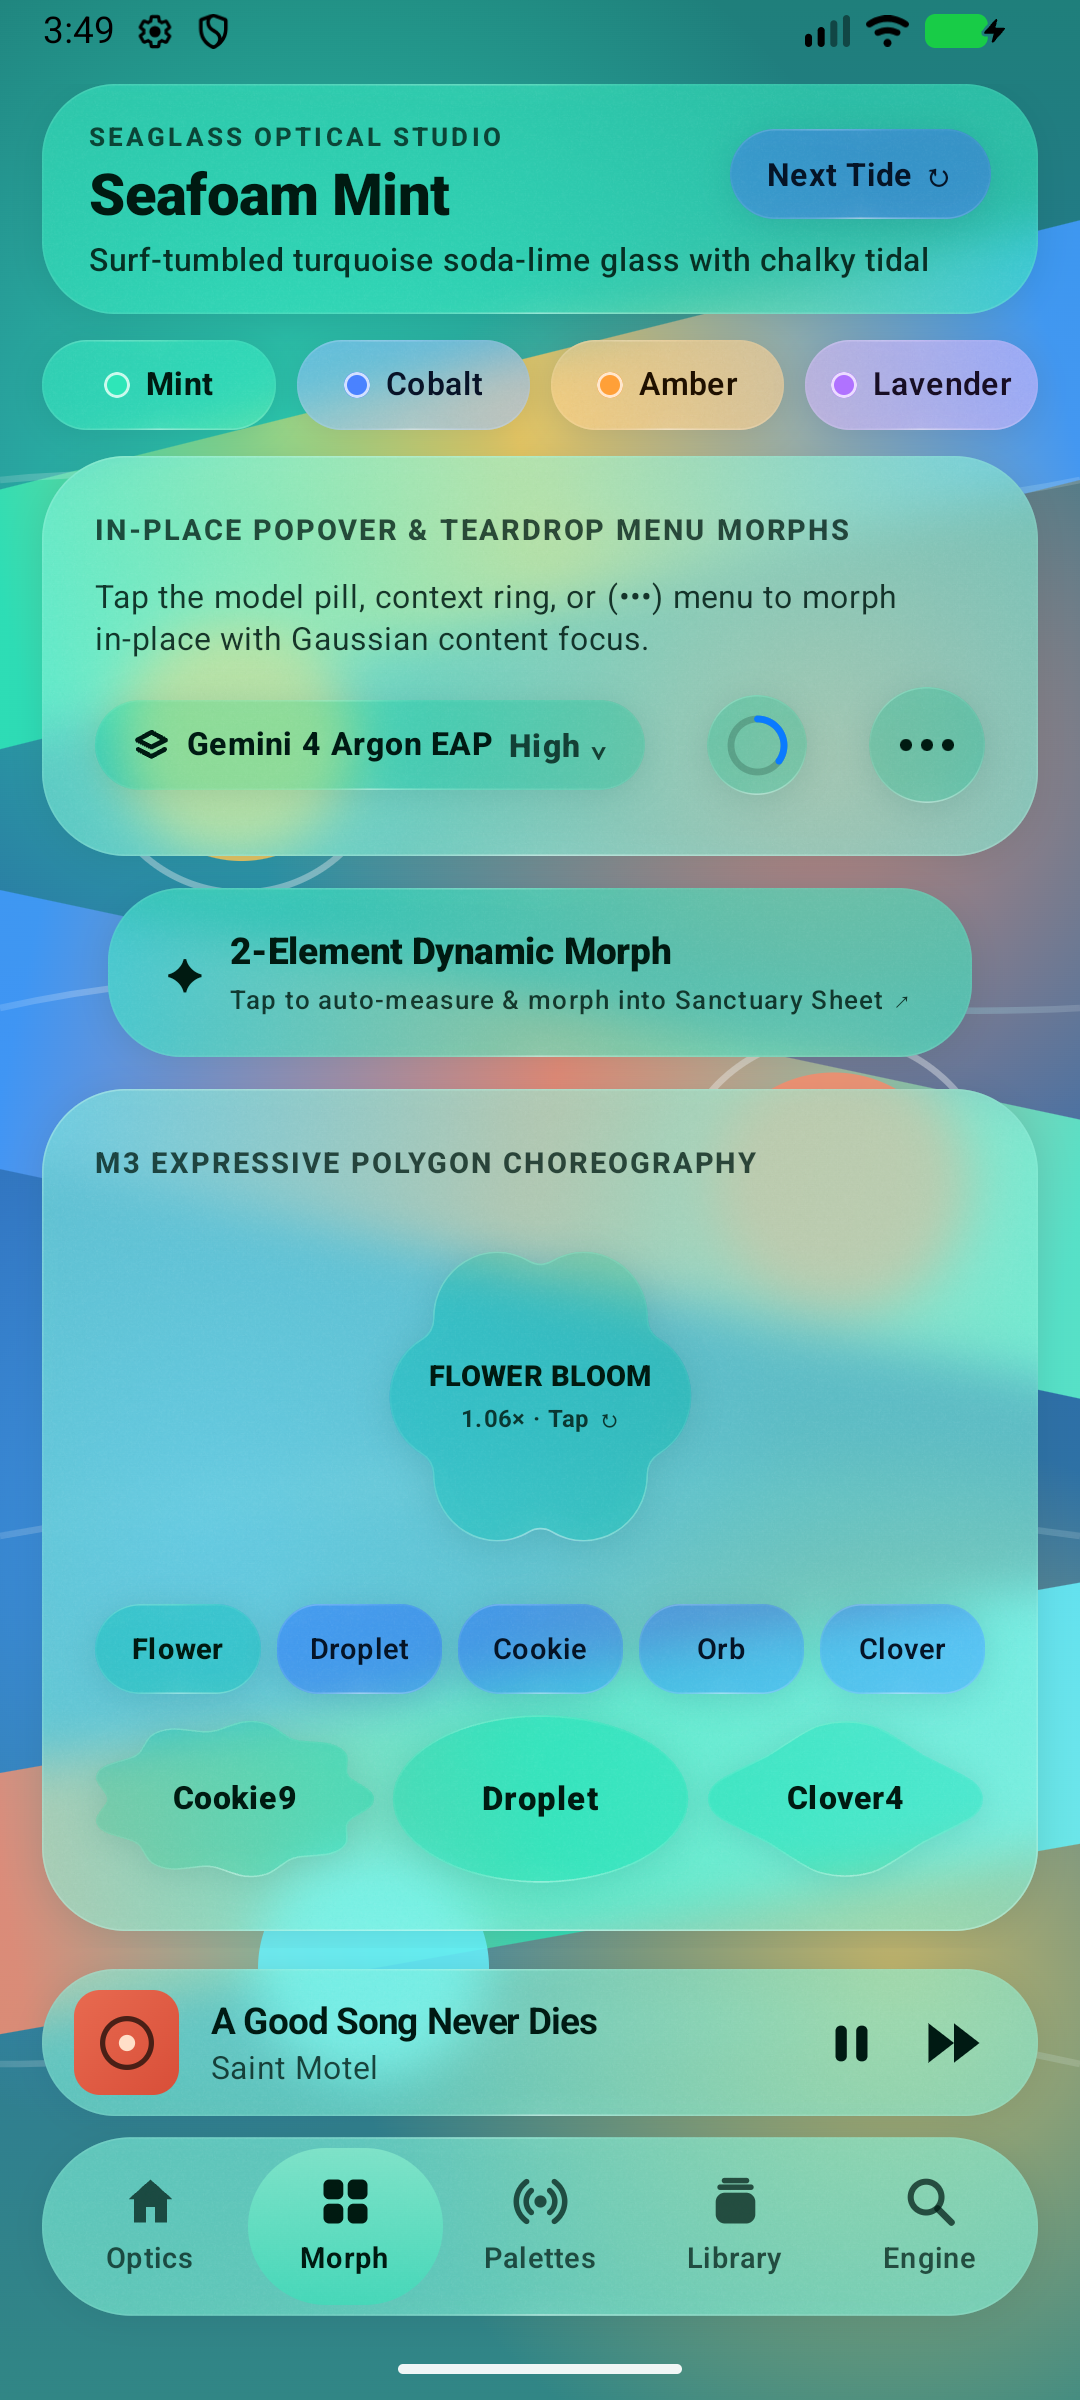
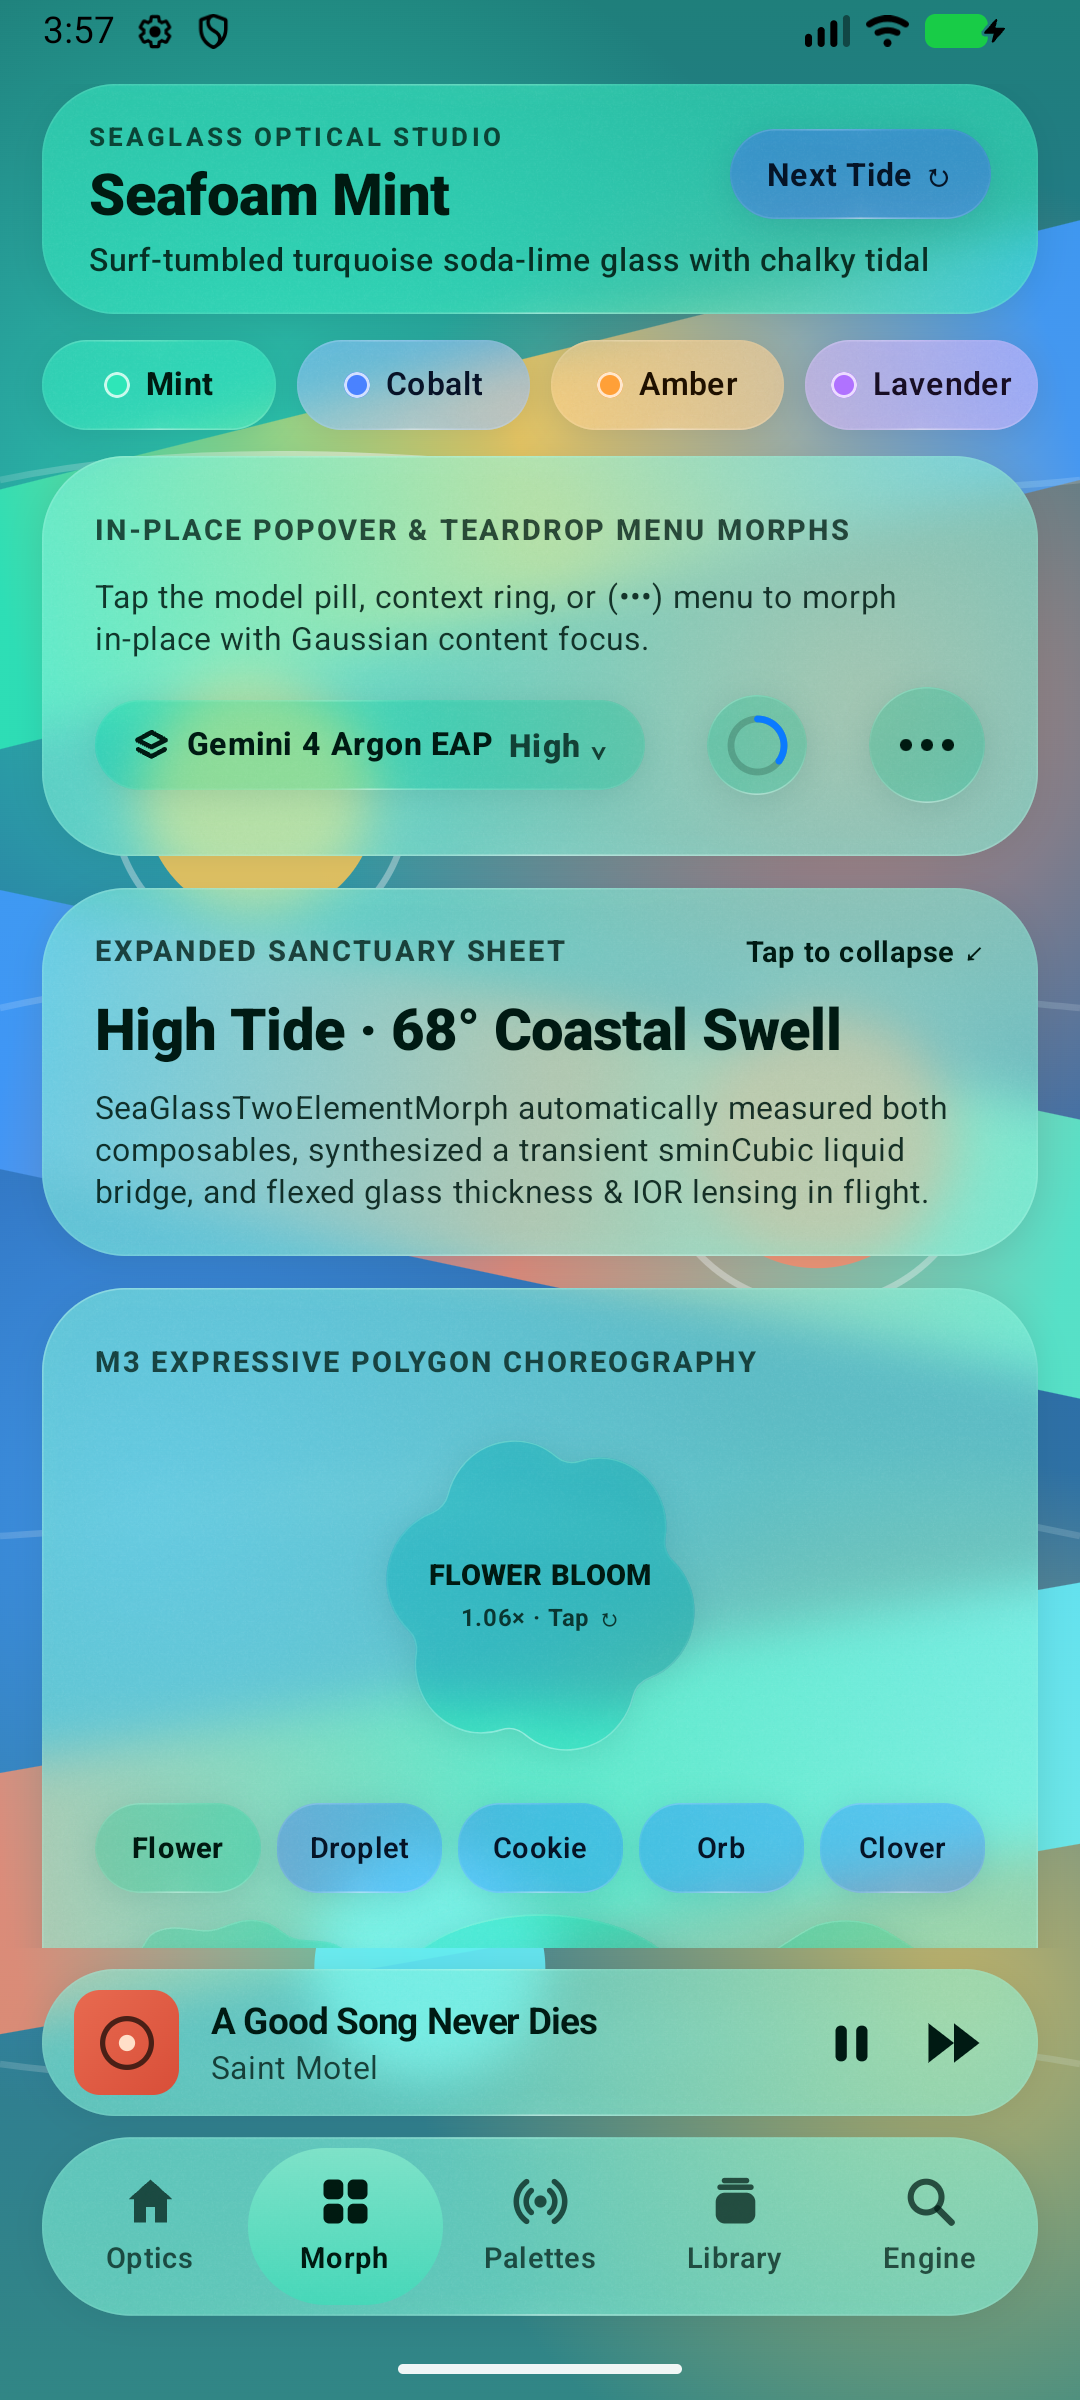
Add temporal de-aging and solidification during motion and morph transitions

Changed region(s): [[0.0306, 0.25, 0.9778, 0.8438], [0.0611, 0.0, 0.0917, 0.0312], [0.0306, 0.1875, 0.0611, 0.2188]]

diff --git a/android/seaglass-compose/src/main/kotlin/dev/seaglass/compose/SeaGlassUiKit.kt b/android/seaglass-compose/src/main/kotlin/dev/seaglass/compose/SeaGlassUiKit.kt
@@ -762,16 +762,15 @@ fun SeaGlassSwitch(
         label = "switchTintEffects"
     )
 
-    val trackMaterial = remember(checkedMaterial, uncheckedMaterial, tintProgress) {
-        SeaGlassMaterial.lerp(uncheckedMaterial, checkedMaterial, tintProgress.coerceIn(0f, 1f)).copy(
-            cornerRadiusDp = 18f,
-            thicknessDp = 12f
-        )
-    }
-
     val leftThumbFrac = min(leadThumb, trailThumb).coerceIn(-0.08f, 1.08f)
     val rightThumbFrac = max(leadThumb, trailThumb).coerceIn(-0.08f, 1.08f)
     val stretchFrac = (rightThumbFrac - leftThumbFrac).coerceIn(0f, 0.85f)
+    val trackMaterial = remember(checkedMaterial, uncheckedMaterial, tintProgress, stretchFrac) {
+        SeaGlassMaterial.lerp(uncheckedMaterial, checkedMaterial, tintProgress.coerceIn(0f, 1f)).copy(
+            cornerRadiusDp = 18f,
+            thicknessDp = 12f
+        ).deaged(stretchFrac * 1.15f)
+    }
     val trackWidthDp = 56.dp
     val trackHeightDp = 32.dp
     val baseThumbWidthDp = 26.dp
@@ -1046,6 +1045,11 @@ fun SeaGlassSegmentedButtonRow(
         Color(indicatorMaterial.tintColorArgb).copy(alpha = 0.48f)
     }
 
+    val segStretchMalleability = abs(leadSegIndex - trailSegIndex).coerceIn(0f, 1f) * 0.78f
+    val activeSegMaterial = remember(containerMaterial, segStretchMalleability) {
+        containerMaterial.copy(cornerRadiusDp = 23f, thicknessDp = 15f).deaged(segStretchMalleability)
+    }
+
     ProvideSeaGlassLegibleContent(contentColor = contentColor) {
         Box(
             modifier = modifier
@@ -1054,7 +1058,7 @@ fun SeaGlassSegmentedButtonRow(
                 .onSizeChanged { barWidthPx = it.width.toFloat().coerceAtLeast(1f) }
                 .seaGlass(
                     stageState = stageState,
-                    material = containerMaterial.copy(cornerRadiusDp = 23f, thicknessDp = 15f),
+                    material = activeSegMaterial,
                     contentRole = SeaGlassContentRole.NAVIGATION_CHROME
                 )
                 .padding(4.dp)
@@ -1345,6 +1349,11 @@ fun SeaGlassFloatingToolbar(
         )
     }
 
+    val toolbarGapMalleability = (abs(gapDp.value - (if (fabDetached) 18f else -6f)) / 14f).coerceIn(0f, 1f)
+    val activeToolbarMaterial = remember(barMaterial, toolbarGapMalleability) {
+        barMaterial.deaged(toolbarGapMalleability)
+    }
+
     Box(
         modifier = modifier
             .fillMaxWidth()
@@ -1352,7 +1361,7 @@ fun SeaGlassFloatingToolbar(
             .onSizeChanged { totalWidthPx = it.width.toFloat().coerceAtLeast(240f) }
             .seaGlass(
                 stageState = stageState,
-                material = barMaterial,
+                material = activeToolbarMaterial,
                 nodesOptional = sdfNodes,
                 smoothRadiusDp = 32f,
                 contentRole = SeaGlassContentRole.NAVIGATION_CHROME

diff --git a/android/sample/src/main/kotlin/dev/seaglass/sample/MainActivity.kt b/android/sample/src/main/kotlin/dev/seaglass/sample/MainActivity.kt
@@ -596,15 +596,17 @@ private fun OpticsLabSection(
     // 1. Flagship Material 3 Expressive × Liquid Sea Glass Coalescing Media & Soundscape Deck
     var isPlaying by remember { mutableStateOf(true) }
     var heroFlowState by remember { mutableIntStateOf(0) }
+    val targetOrbGapDp = when (heroFlowState) {
+        0 -> -2f
+        1 -> 9f
+        else -> 22f
+    }
     val playOrbGapDp by animateFloatAsState(
-        targetValue = when (heroFlowState) {
-            0 -> -2f
-            1 -> 9f
-            else -> 22f
-        },
+        targetValue = targetOrbGapDp,
         animationSpec = spring(dampingRatio = 0.54f, stiffness = 300f),
         label = "playOrbGap"
     )
+    val deckFlowMalleability = (kotlin.math.abs(playOrbGapDp - targetOrbGapDp) / 10f).coerceIn(0f, 1f)
 
     var deckWidthPx by remember { mutableFloatStateOf(960f) }
     val deckHeight = 112.dp
@@ -692,7 +694,7 @@ private fun OpticsLabSection(
             )
             .seaGlass(
                 stageState = stageState,
-                material = primaryMaterial,
+                material = primaryMaterial.deaged(kotlin.math.max(deckFlowMalleability, deckTouchIntensity * 0.7f)),
                 nodesOptional = heroNodes,
                 smoothRadiusDp = 44f,
                 touchPointInLocal = deckTouchPoint,
@@ -1422,6 +1424,10 @@ private fun FluidCoalescingSection(
         animationSpec = spring(dampingRatio = 0.60f, stiffness = 580f),
         label = "arenaTouchIntensity"
     )
+    val sepFlightEnergy = (kotlin.math.abs(animatedSepDp - targetSeparationDp) / 36f).coerceIn(0f, 1f)
+    val shapeFlightEnergy = (4f * localMorphFrac.coerceIn(0f, 1f) * (1f - localMorphFrac.coerceIn(0f, 1f)))
+        .coerceIn(0f, 1f)
+    val arenaMalleability = maxOf(sepFlightEnergy, shapeFlightEnergy, arenaTouchIntensity * 0.85f).coerceIn(0f, 1f)
 
     Box(
         modifier = Modifier
@@ -1446,7 +1452,7 @@ private fun FluidCoalescingSection(
             }
             .seaGlass(
                 stageState = stageState,
-                material = primaryMaterial,
+                material = primaryMaterial.deaged(arenaMalleability),
                 nodesOptional = arenaMorphNodes,
                 smoothRadiusDp = smoothBridgeDp,
                 touchPointInLocal = arenaTouchPoint,

diff --git a/android/seaglass-core/src/main/kotlin/dev/seaglass/core/SeaGlassShapeMorph.kt b/android/seaglass-core/src/main/kotlin/dev/seaglass/core/SeaGlassShapeMorph.kt
@@ -676,7 +676,13 @@ object SeaGlassShapeMorph {
     ): RoundedPolygon = obtainNormalizedPolygon(kind, aspectRatio)
 
     /**
-     * Computes the dynamic **Liquid Glass Flex Material** during an animation or transition.
+     * Computes the dynamic **Liquid Glass Flex & Temporal De-Aging Material** during an animation or transition:
+     * - While in flight (`totalEnergy > 0`), the material **de-ages** (`deaged(totalEnergy)`): it sheds
+     *   its coarse sand-frosted texture (`coarseness` dissolves toward `0`), clarifies into malleable
+     *   liquid glass (`transparency` rises, `frostRadiusDp` tightens), and flexes its refractive lens
+     *   (`ior`, `chromaticDispersion`, `thicknessDp`).
+     * - As the animation settles (`progress -> 0` or `progress -> 1`), the glass solidifies and
+     *   regains its full sand-frosted surface treatment.
      */
     fun computeDynamicFlexMaterial(
         startMaterial: SeaGlassMaterial,
@@ -690,11 +696,12 @@ object SeaGlassShapeMorph {
 
         val morphEnergy = (4f * p * (1f - p)).coerceIn(0f, 1f)
         val velocityEnergy = (abs(velocityPxPerSec) / 1800f).coerceIn(0f, 1f)
-        val totalEnergy = max(morphEnergy, velocityEnergy * 0.75f)
+        val totalEnergy = max(morphEnergy, velocityEnergy * 0.75f).coerceIn(0f, 1f)
 
         val scaleFactor = sqrt(areaExpansionRatio.coerceIn(0.5f, 4.0f))
+        val deagedBase = base.deaged(totalEnergy)
 
-        return base.copy(
+        return deagedBase.copy(
             ior = (base.ior + 0.10f * totalEnergy + 0.04f * (scaleFactor - 1f)).coerceIn(1.0f, 1.95f),
             chromaticDispersion = (base.chromaticDispersion + 0.22f * totalEnergy).coerceIn(0f, 1f),
             rimChalkiness = (base.rimChalkiness + 0.16f * totalEnergy).coerceIn(0f, 1f),

diff --git a/android/seaglass-core/src/main/kotlin/dev/seaglass/core/SeaGlassMaterial.kt b/android/seaglass-core/src/main/kotlin/dev/seaglass/core/SeaGlassMaterial.kt
@@ -93,6 +93,30 @@ data class SeaGlassMaterial(
     }
 
     /**
+     * Evaluates **Temporal De-Aging & Solidification** on this material during motion or morphing:
+     * - While the glass is malleable and moving ([malleability] $\to 1.0$), it reverses its sand-tumbled
+     *   state in time—shedding its coarse sand texture ([coarseness] $\to 0$), clarifying its body
+     *   ([transparency] $\to 0.92$, [frostRadiusDp] $\to 2.5\text{dp}$), and boosting refractive lensing.
+     * - As the animation finalizes and settles into its resting place ([malleability] $\to 0.0$),
+     *   the glass solidifies and re-crystallizes its full sand-frosted surface treatment.
+     */
+    fun deaged(malleability: Float): SeaGlassMaterial {
+        val m = malleability.coerceIn(0f, 1f)
+        if (m <= 0.005f) return this
+        // Fast melt into clear liquid glass on motion onset; smooth re-crystallization on settle
+        val melt = (m * (1.35f - 0.35f * m)).coerceIn(0f, 1f)
+        val targetClearTransparency = kotlin.math.max(transparency, 0.92f)
+        return copy(
+            coarseness = (coarseness * (1f - 0.88f * melt)).coerceIn(0f, 1f),
+            transparency = (transparency + (targetClearTransparency - transparency) * 0.80f * melt)
+                .coerceIn(0f, 1f),
+            frostRadiusDp = (frostRadiusDp * (1f - 0.82f * melt) + 2.0f * melt).coerceAtLeast(0f),
+            ior = (ior + 0.08f * melt).coerceIn(1.0f, 2.0f),
+            chromaticDispersion = (chromaticDispersion + 0.16f * melt).coerceIn(0f, 1f)
+        )
+    }
+
+    /**
      * Returns a physically compressed state of this material for touch/press interactions:
      * pressing the glass increases refractive rim light and volumetric tint saturation.
      */

diff --git a/android/seaglass-compose/src/main/kotlin/dev/seaglass/compose/SeaGlassTheme.kt b/android/seaglass-compose/src/main/kotlin/dev/seaglass/compose/SeaGlassTheme.kt
@@ -157,11 +157,23 @@ fun animateSeaGlassMaterialAsState(
         label = "transparency"
     )
 
-    return remember {
+    return remember(targetMaterial) {
         derivedStateOf {
             val animatedArgb = SeaGlassColorMath.oklabToArgb(
                 SeaGlassColorMath.OklabColor(l = l, a = a, b = b, alpha = 1f)
             )
+            // Compute in-flight malleability from active spatial/state transitions:
+            // while geometry (cornerRadius, thickness) or state tint is moving toward its target,
+            // the glass de-ages (loses its coarse sand texture and clarifies into malleable liquid
+            // glass) and solidifies back to its sand-frosted finish as the animation settles!
+            val cornerDelta = kotlin.math.abs(cornerRadiusDp - targetMaterial.cornerRadiusDp) / 7f
+            val thicknessDelta = kotlin.math.abs(thicknessDp - targetMaterial.thicknessDp) / 4.5f
+            val dl = l - labTarget.l
+            val da = a - labTarget.a
+            val db = b - labTarget.b
+            val colorDelta = kotlin.math.sqrt(dl * dl + da * da + db * db) * 4.5f
+            val inFlightMalleability = maxOf(cornerDelta, thicknessDelta, colorDelta).coerceIn(0f, 1f)
+
             SeaGlassMaterial(
                 tintColorArgb = animatedArgb,
                 tintDensity = tintDensity.coerceIn(0f, 1f),
@@ -175,7 +187,7 @@ fun animateSeaGlassMaterialAsState(
                 cornerSmoothing = cornerSmoothing.coerceIn(2.0f, 4.0f),
                 ambientAdaptation = targetMaterial.ambientAdaptation,
                 transparency = transparency.coerceIn(0f, 1f)
-            )
+            ).deaged(inFlightMalleability)
         }
     }
 }

diff --git a/android/seaglass-core/src/test/kotlin/dev/seaglass/core/SeaGlassCoreTest.kt b/android/seaglass-core/src/test/kotlin/dev/seaglass/core/SeaGlassCoreTest.kt
@@ -224,6 +224,13 @@ class SeaGlassCoreTest {
             areaExpansionRatio = 2.25f
         )
 
+        val atRestEnd = SeaGlassShapeMorph.computeDynamicFlexMaterial(
+            startMaterial = start,
+            endMaterial = end,
+            progress = 1f,
+            areaExpansionRatio = 1f
+        )
+
         assertTrue(
             "Mid-flight morph must boost IOR lensing (${midFlight.ior} > ${atRestStart.ior})",
             midFlight.ior > atRestStart.ior
@@ -235,6 +242,26 @@ class SeaGlassCoreTest {
         assertTrue(
             "Expanded mid-flight morph must increase effective glass thickness",
             midFlight.thicknessDp > atRestStart.thicknessDp
+        )
+        assertTrue(
+            "Mid-flight morph must de-age (lose coarse sand texture while malleable: ${midFlight.coarseness} < ${atRestStart.coarseness})",
+            midFlight.coarseness < atRestStart.coarseness * 0.25f
+        )
+        assertTrue(
+            "Mid-flight morph must clarify into transparent liquid glass (${midFlight.transparency} > ${atRestStart.transparency})",
+            midFlight.transparency > atRestStart.transparency + 0.15f
+        )
+        assertEquals(
+            "Solidified end state must regain full sand-frosted coarseness",
+            end.coarseness,
+            atRestEnd.coarseness,
+            1e-4f
+        )
+        assertEquals(
+            "Solidified end state must regain target resting transparency",
+            end.transparency,
+            atRestEnd.transparency,
+            1e-4f
         )
 
         for (kind in SeaGlassShapeKind.entries) {

diff --git a/android/seaglass-compose/src/main/kotlin/dev/seaglass/compose/SeaGlassComponents.kt b/android/seaglass-compose/src/main/kotlin/dev/seaglass/compose/SeaGlassComponents.kt
@@ -809,6 +809,15 @@ fun SeaGlassFluidBar(
         }
     }
 
+    val barInFlightMalleability = kotlin.math.abs(leadIndex - trailIndex).coerceIn(0f, 1f) * 0.72f
+    val activeBarMaterial = remember(barMaterial, barInFlightMalleability) {
+        barMaterial.copy(
+            cornerRadiusDp = 34f,
+            thicknessDp = 20f,
+            rimChalkiness = 0.90f
+        ).deaged(barInFlightMalleability)
+    }
+
     Box(
         modifier = modifier
             .fillMaxWidth()
@@ -819,11 +828,7 @@ fun SeaGlassFluidBar(
             }
             .seaGlass(
                 stageState = stageState,
-                material = barMaterial.copy(
-                    cornerRadiusDp = 34f,
-                    thicknessDp = 20f,
-                    rimChalkiness = 0.90f
-                ),
+                material = activeBarMaterial,
                 nodesOptional = coalescingNodes,
                 smoothRadiusDp = 42f,
                 contentRole = SeaGlassContentRole.NAVIGATION_CHROME

diff --git a/android/seaglass-compose/src/main/kotlin/dev/seaglass/compose/SeaGlassDynamicMorph.kt b/android/seaglass-compose/src/main/kotlin/dev/seaglass/compose/SeaGlassDynamicMorph.kt
@@ -1120,6 +1120,12 @@ fun SeaGlassBuddingCluster(
         )
     }
 
+    val budInFlightEnergy = (4f * expandProgress.coerceIn(0f, 1f) * (1f - expandProgress.coerceIn(0f, 1f)))
+        .coerceIn(0f, 1f)
+    val activeClusterMaterial = remember(anchorMaterial, budInFlightEnergy) {
+        anchorMaterial.deaged(budInFlightEnergy)
+    }
+
     Box(
         modifier = modifier
             .fillMaxWidth()
@@ -1127,7 +1133,7 @@ fun SeaGlassBuddingCluster(
             .onSizeChanged { containerWidthPx = it.width.toFloat() }
             .seaGlass(
                 stageState = stageState,
-                material = anchorMaterial,
+                material = activeClusterMaterial,
                 nodesOptional = activeNodes,
                 smoothRadiusDp = 46f
             )
